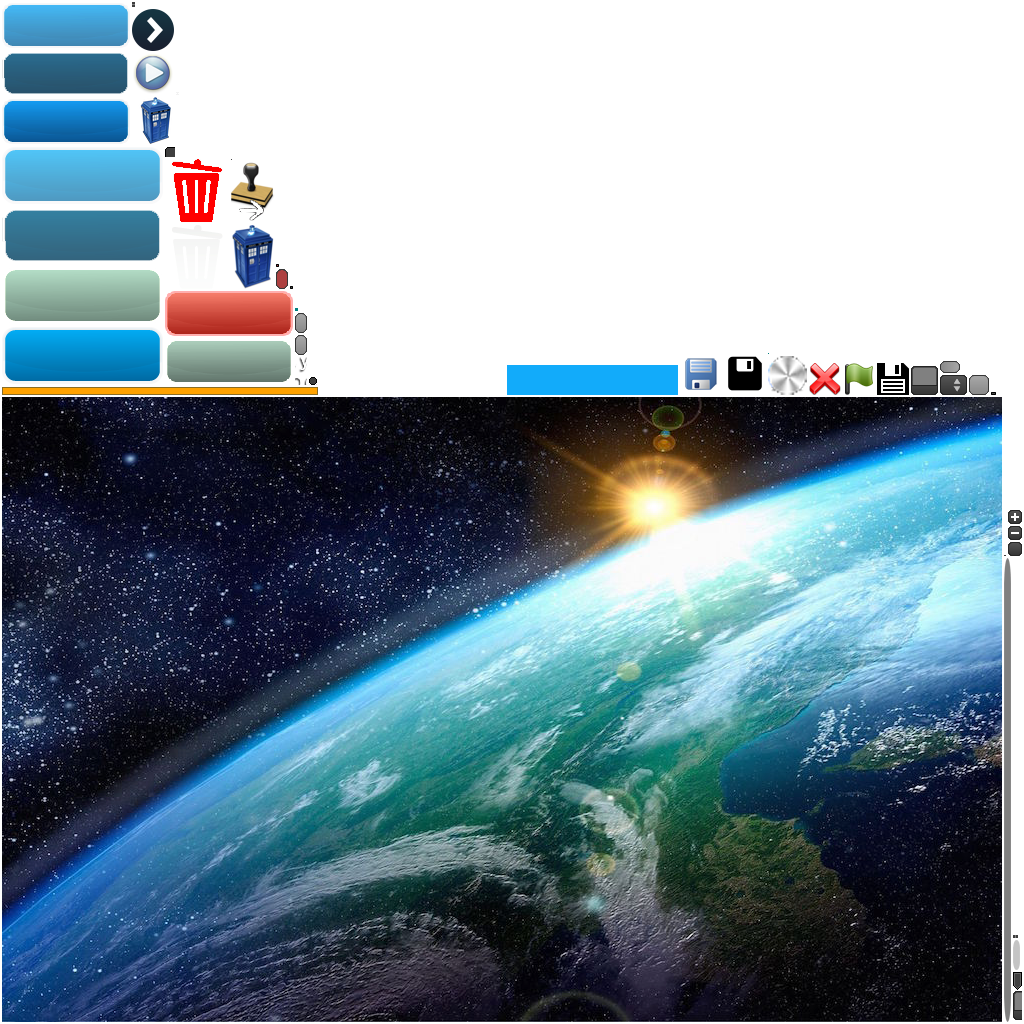
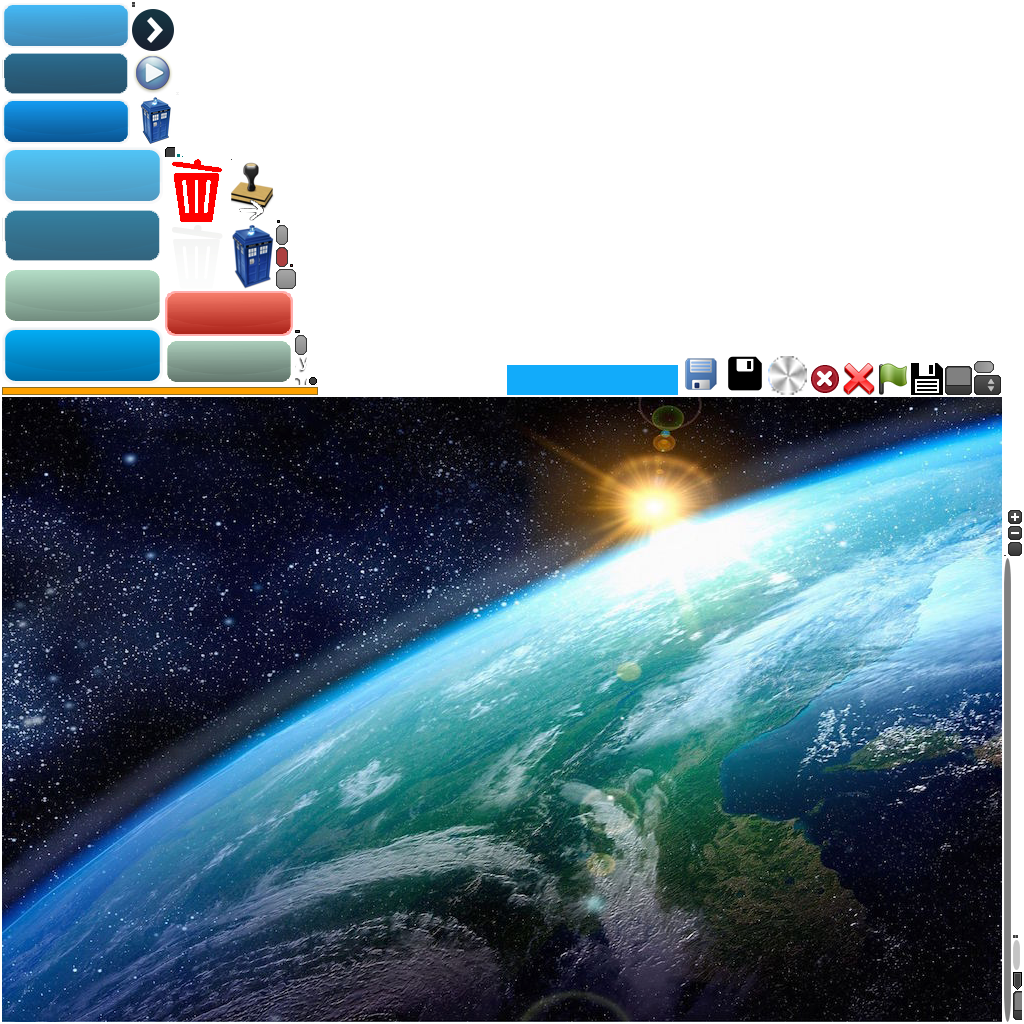
Close run screen

Changed region(s): [[0.7812, 0.3438, 0.9688, 0.4062], [0.25, 0.2188, 0.3125, 0.2812], [0.2812, 0.3125, 0.3125, 0.3438]]

diff --git a/core/src/com/bigcustard/planet/PlanetApplication.java b/core/src/com/bigcustard/planet/PlanetApplication.java
@@ -1,19 +1,29 @@
 package com.bigcustard.planet;
 
+import com.badlogic.gdx.Gdx;
+import com.badlogic.gdx.Input;
 import com.badlogic.gdx.files.FileHandle;
+import com.badlogic.gdx.graphics.Texture;
+import com.badlogic.gdx.graphics.g2d.Batch;
+import com.badlogic.gdx.math.Vector3;
 import com.badlogic.gdx.scenes.scene2d.InputEvent;
+import com.badlogic.gdx.scenes.scene2d.ui.Image;
 import com.badlogic.gdx.scenes.scene2d.ui.TextButton;
 import com.badlogic.gdx.scenes.scene2d.utils.ClickListener;
+import com.badlogic.gdx.scenes.scene2d.utils.Drawable;
 import com.badlogic.gdx.utils.viewport.ScreenViewport;
 import com.badlogic.gdx.utils.viewport.Viewport;
 import com.bigcustard.blurp.core.BlurpRuntime;
 import com.bigcustard.blurp.model.BlurpMain;
 import com.bigcustard.blurp.model.ImageSprite;
+import com.bigcustard.blurp.ui.BlurpScreen;
+import com.bigcustard.blurp.ui.RenderListener;
 import com.bigcustard.planet.code.Game;
 import com.bigcustard.planet.screen.CodingScreen;
 import com.bigcustard.planet.screen.GameLibraryDialog;
 import com.bigcustard.planet.screen.ResourceManager;
 import com.bigcustard.planet.screen.WelcomeScreen;
+import com.bigcustard.scene2dplus.XY;
 import com.google.common.util.concurrent.FutureCallback;
 import com.google.common.util.concurrent.Futures;
 
@@ -47,7 +57,30 @@ public class PlanetApplication extends com.badlogic.gdx.Game {
             }
         };
         runtime.start(script);
-        setScreen(runtime.getScreen());
+        BlurpScreen blurpScreen = runtime.getScreen();
+        setScreen(blurpScreen);
+        blurpScreen.setRenderListener((batch, delta, eventType) -> {
+            if (eventType == RenderListener.EventType.PreRender) {
+                int crossX = viewport.getScreenWidth() - 40;
+                int crossY = viewport.getScreenHeight() - 40;
+
+                Drawable closeIcon = resourceManager.getSkin().getDrawable("close");
+                closeIcon.draw(batch, crossX, crossY, 32, 32);
+
+                if (Gdx.input.isButtonPressed(Input.Buttons.LEFT) && clickedOnClose(crossX, crossY)) {
+                    runtime.end();
+                    showCodingScreen(() -> game);
+                }
+            }
+        });
+    }
+
+    private boolean clickedOnClose(int crossX, int crossY) {
+        int x = Gdx.input.getX();
+        int y = Gdx.input.getY();
+        Vector3 world = viewport.getCamera().unproject(new Vector3(x, y, 0));
+        return world.x > crossX && world.x < crossX + 32 &&
+                world.y > crossY && world.y < crossY + 32;
     }
 
     private void configureGameLibraryButton(WelcomeScreen welcomeScreen) {
